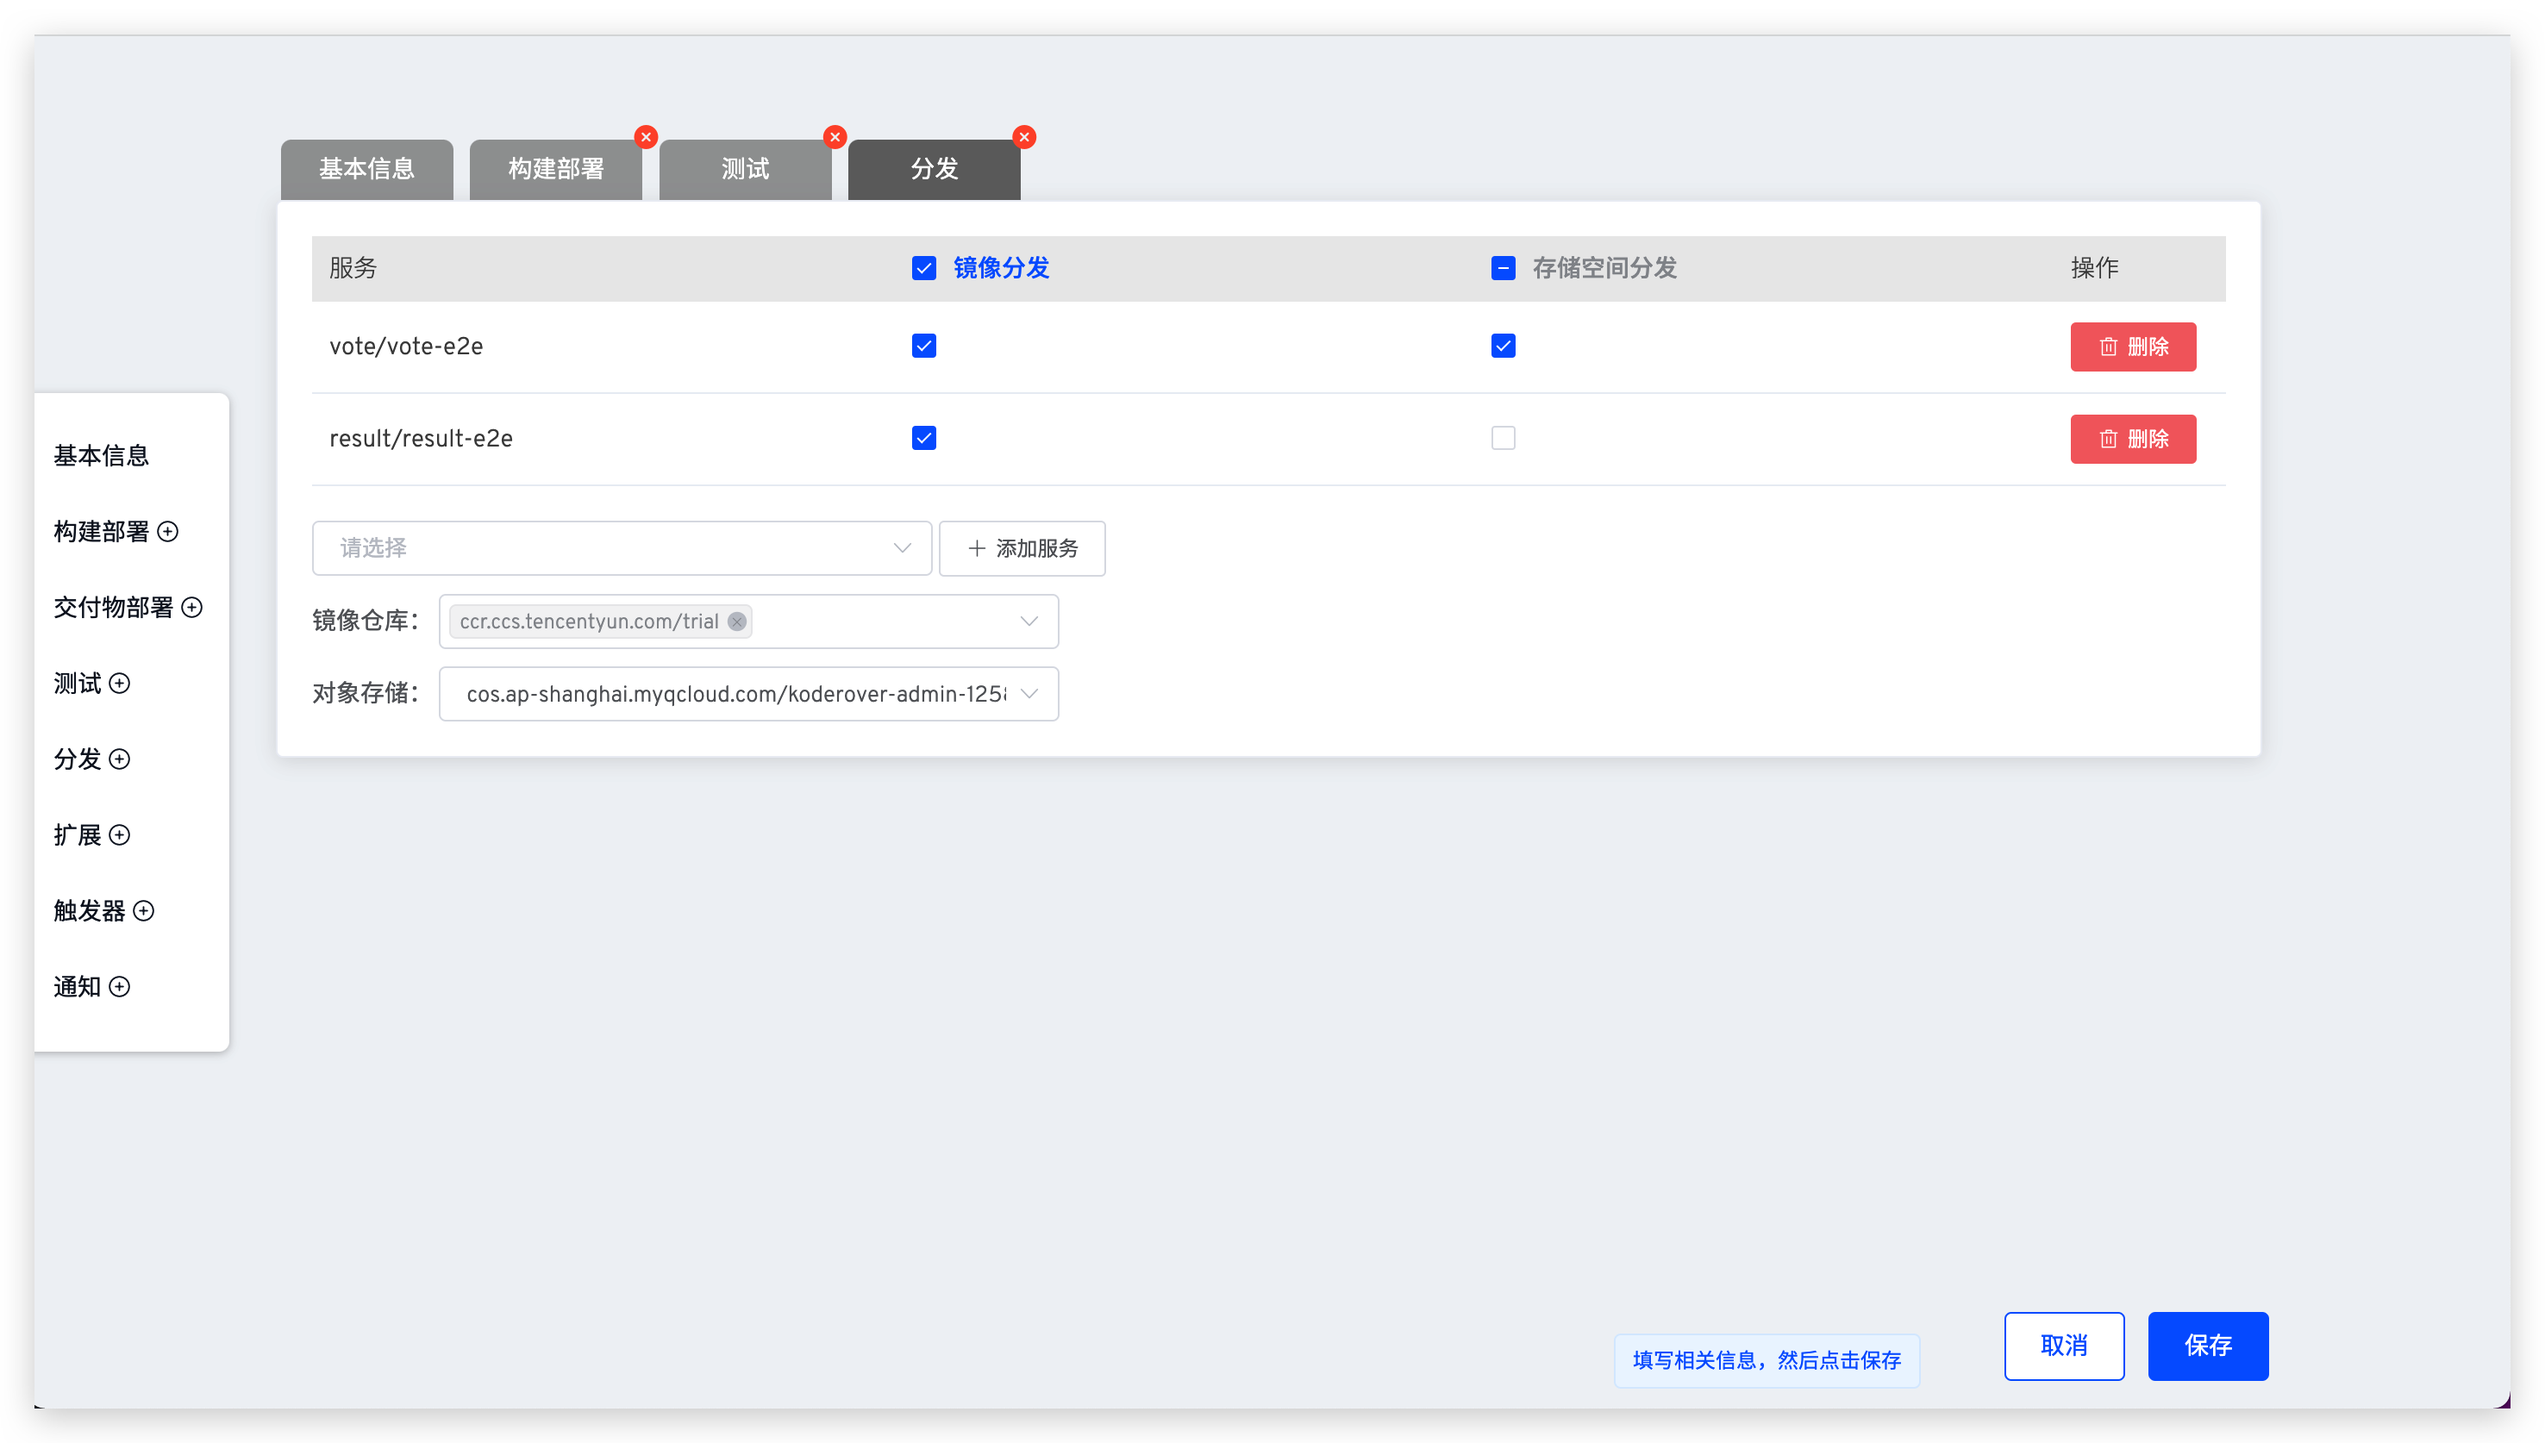
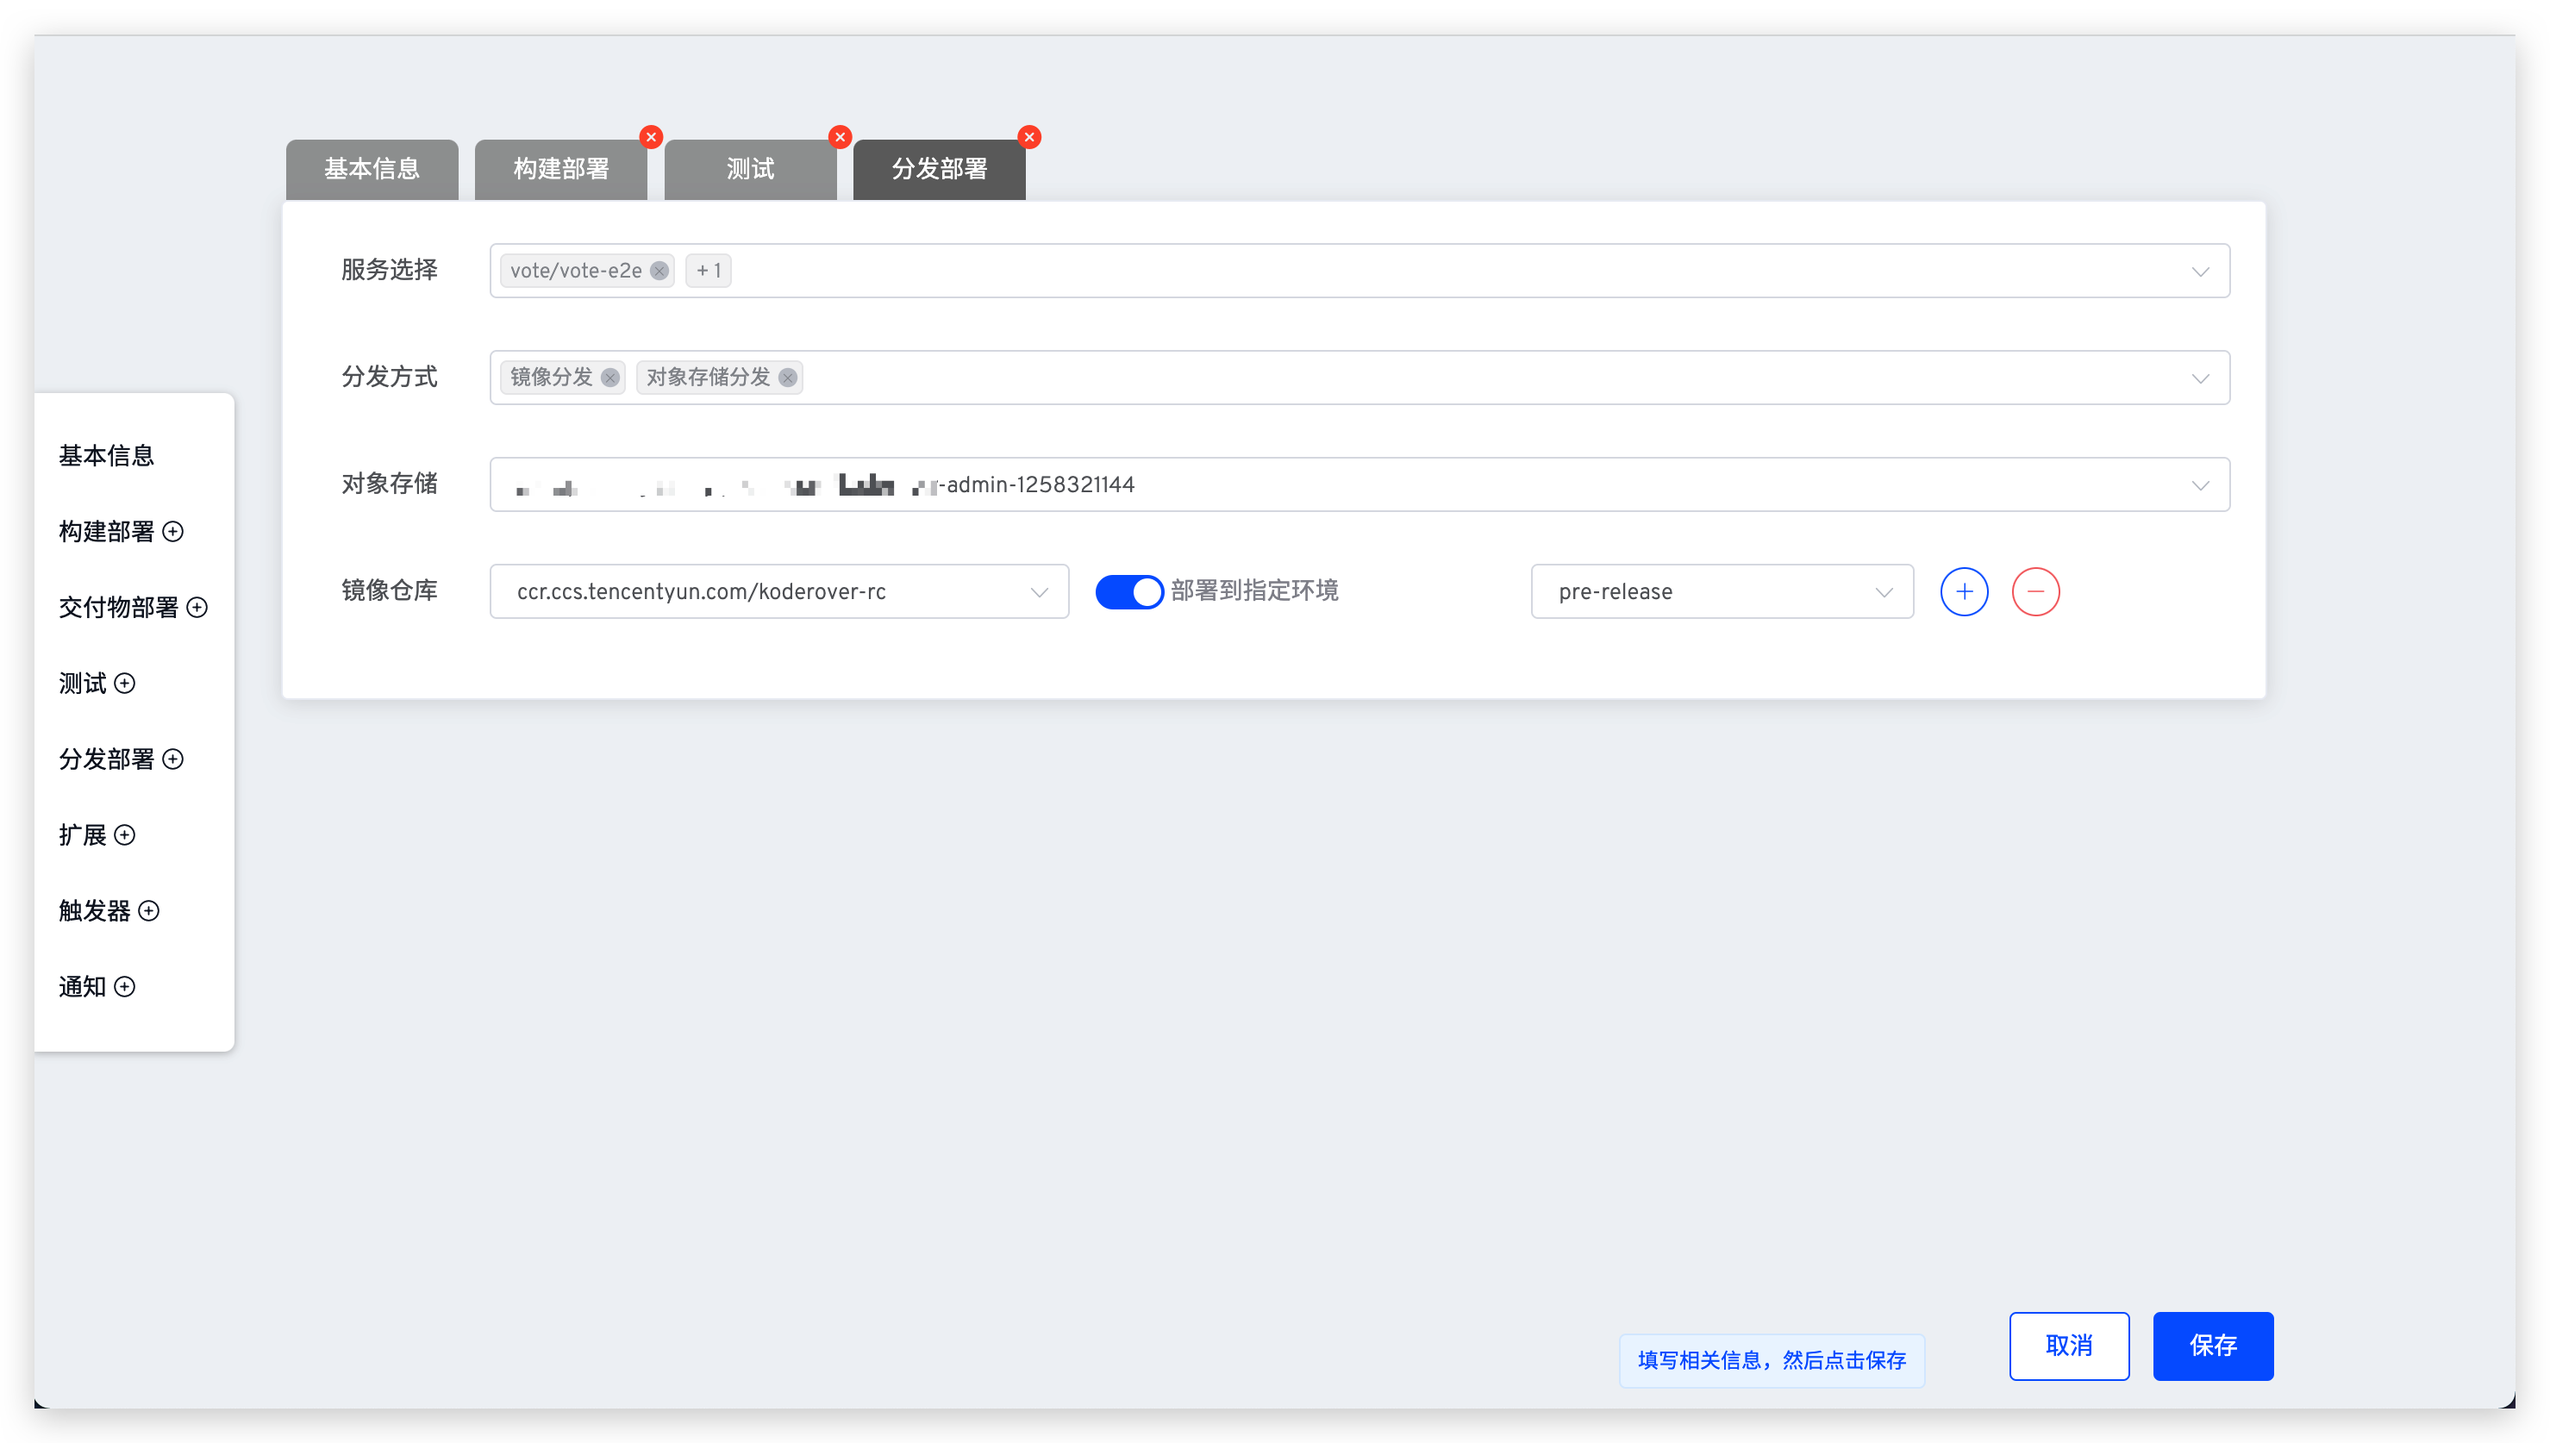
update distribute deploy for workflow

diff --git a/dev/04.项目/02.workflow.md b/dev/04.项目/02.workflow.md
@@ -42,7 +42,7 @@ permalink: /dev/project/workflow/
 
 字段说明：
 
-- `服务`：内容的格式为`服务名/服务组件名`，点击服务可跳转查看该服务的配置详情。
+- `服务`：内容的格式为`服务名/服务组件名`，点击服务可跳转查看该服务的配置详情。关于服务组件的概念可阅读[服务组件](/dev/quick-start/concepts/#服务组件)。
 - `部署`：内容的格式为`服务名/服务组件名`。
 - `是否显示`：用于设置在启动工作流任务时，是否在服务列表中显示该服务。上图例中设置 `redis` 服务为不显示后，运行工作流时效果见下图：
 
@@ -69,9 +69,9 @@ permalink: /dev/project/workflow/
 
 ![workflow](./_images/workflow_test.png)
 
-### 分发
+### 分发部署
 
-> 通过配置分发模块，用户可以对服务的构建产物进行分发操作，目前支持镜像仓库分发和存储空间分发
+> 对服务的构建产物进行分发部署操作，目前支持镜像仓库分发和存储空间分发。适用于使用构建部署更新环境并测试通过后，将服务构建产物上传到对象存储中，或部署到其他环境中。
 ::: tip 前提
 镜像的分发支持需要管理员提前正确配置[`镜像仓库`](/dev/settings/image-registry/)<br>
 存储空间的分发支持需要管理员提前正确配置[`对象存储`](/dev/settings/object-storage/)
@@ -81,9 +81,11 @@ permalink: /dev/project/workflow/
 
 参数说明：
 
-- 添加服务：要被执行分发的目标服务
-- 镜像仓库：构建的镜像产物被分发的目标镜像仓库，可在系统设置的 [镜像仓库](/dev/settings/image-registry/) 中查阅
+- 服务选择：要被执行分发部署的目标服务，可多选
+- 分发方式：包括镜像分发和对象存储分发
 - 对象存储：构建的文件产物（一般为压缩包）被分发的目标对象存储，可在系统设置的 [对象存储](/dev/settings/object-storage) 中查阅
+- 镜像仓库：构建的镜像产物被分发的目标镜像仓库，可在系统设置的 [镜像仓库](/dev/settings/image-registry/) 中查阅
+- 部署到指定环境：将服务部署更新到指定的环境，需要确保指定环境可正常获取到指定镜像仓库中的镜像资源
 
 ## 扩展
 > 通过配置扩展模块，可以和外部系统对接对系统事件进行 Hook，外部系统接收请求后，可以按需自定义一些操作。

diff --git a/v1.10.0/04.项目/02.workflow.md b/v1.10.0/04.项目/02.workflow.md
@@ -42,7 +42,7 @@ permalink: /v1.10.0/project/workflow/
 
 字段说明：
 
-- `服务`：内容的格式为`服务名/服务组件名`，点击服务可跳转查看该服务的配置详情。
+- `服务`：内容的格式为`服务名/服务组件名`，点击服务可跳转查看该服务的配置详情。关于服务组件的概念可阅读[服务组件](/v1.10.0/quick-start/concepts/#服务组件)。
 - `部署`：内容的格式为`服务名/服务组件名`。
 - `是否显示`：用于设置在启动工作流任务时，是否在服务列表中显示该服务。上图例中设置 `redis` 服务为不显示后，运行工作流时效果见下图：
 
